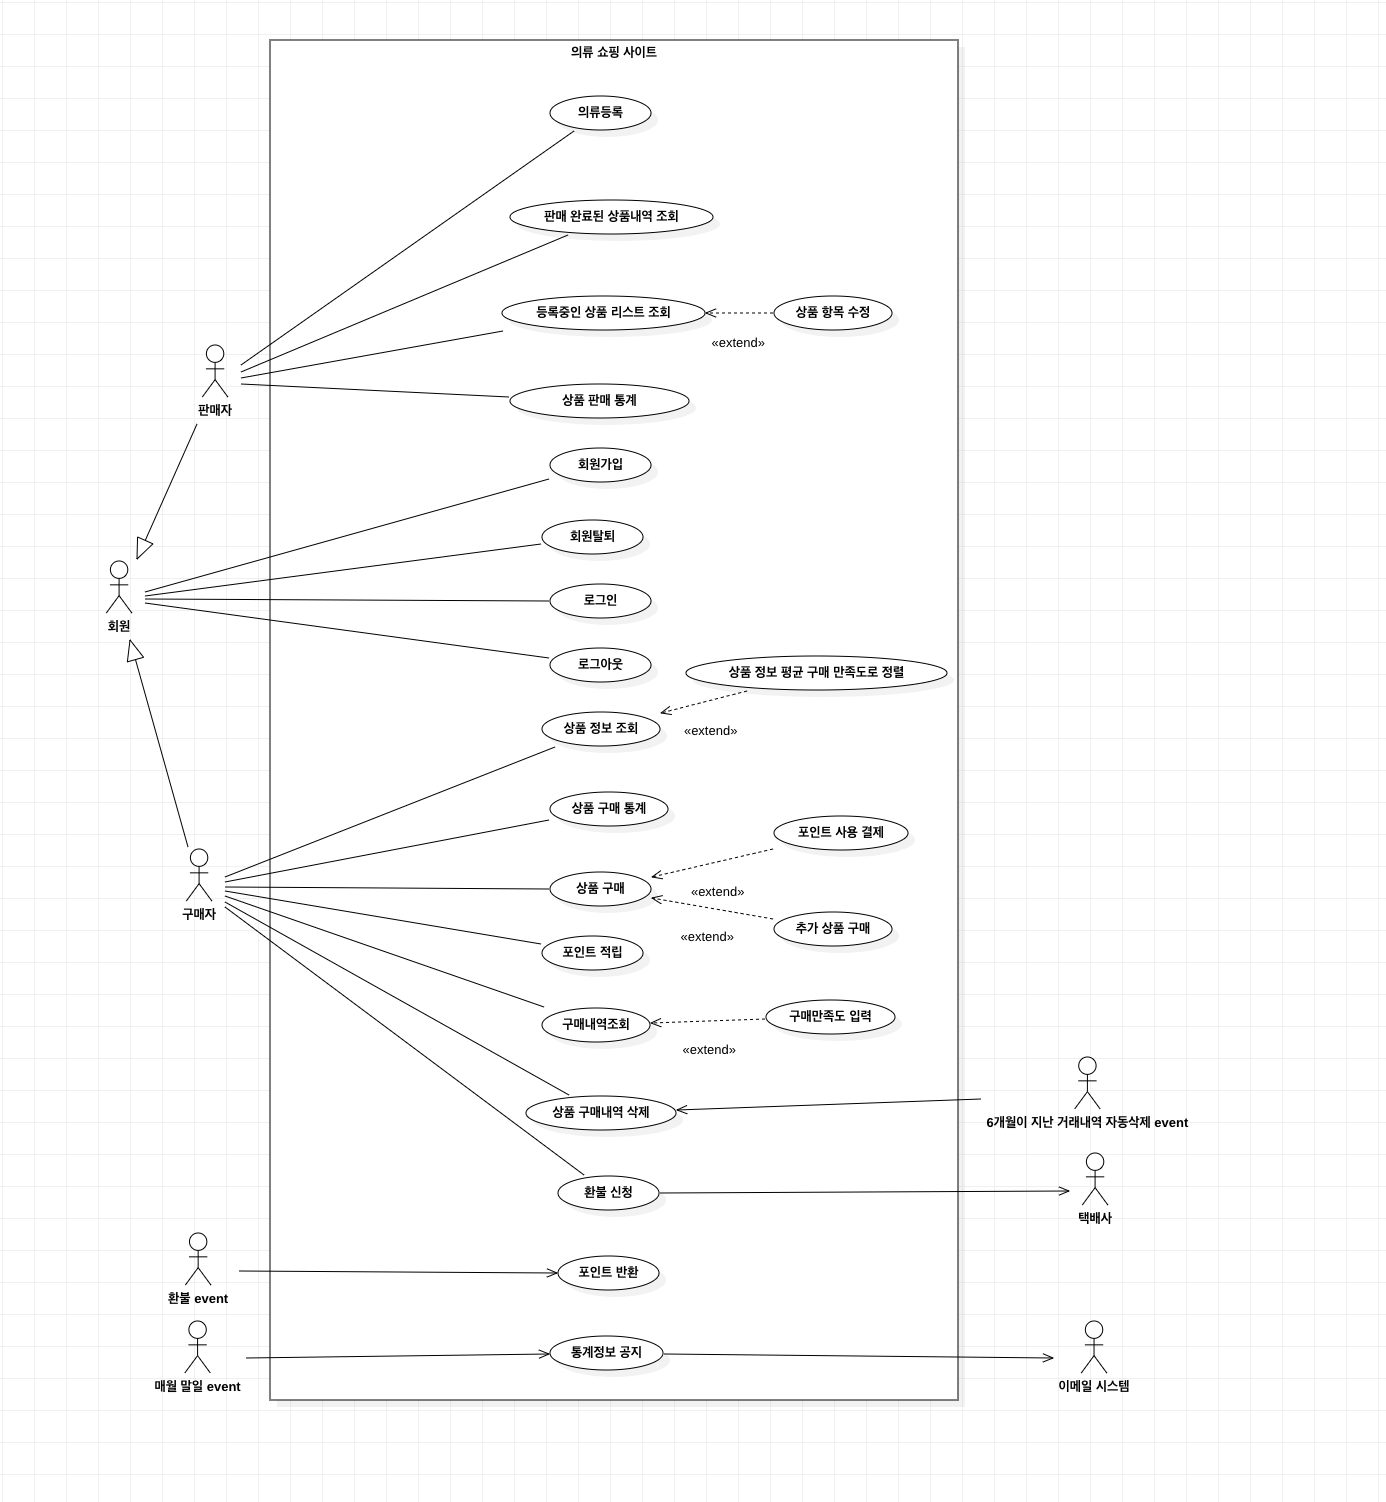
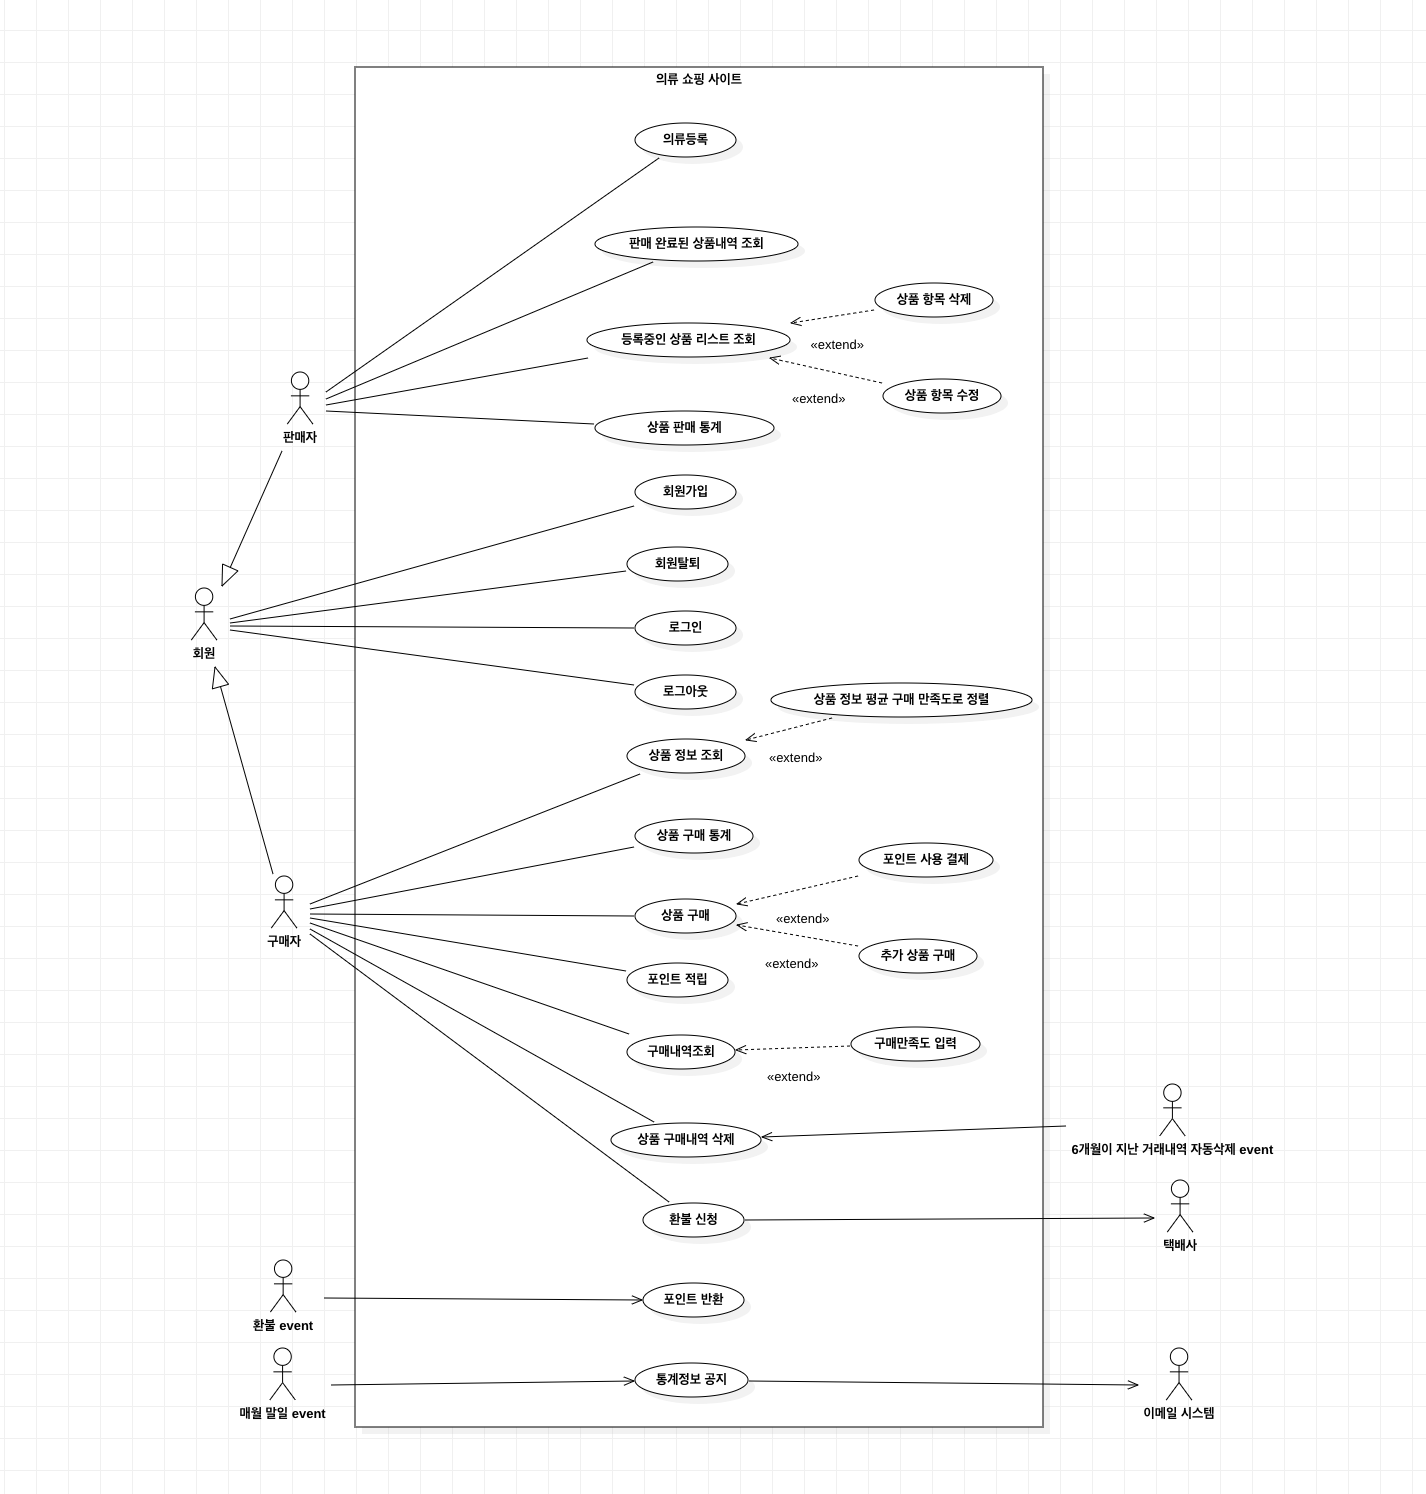
판매의류 삭제 기능 통합 actor description과 통합 ucd에서 수정함

diff --git a/합본 Actor descriptions.md b/합본 Actor descriptions.md
@@ -3,7 +3,7 @@
 | Actor                                | Description                                                  |
 | :----------------------------------- | ------------------------------------------------------------ |
 | 회원                                    | 회원가입/회원탈퇴, 로그인/로그아웃을 할 수 있다. |
-| 판매자                                 | 의류등록, 등록중인 상품 리스트 조회, 상품 판매통계, 판매 완료된 자신의 상품 조회를 할 수 있다.                             |
+| 판매자                                 | 의류등록, 등록중인 상품 리스트 조회, 수정, 삭제, 상품 판매통계, 판매 완료된 상품내역 조회를 할 수 있다.                             |
 | 구매자                                 | 상품정보를 조회, 상품 구매, 포인트적립, 구매내역조회, 상품구매내역 삭제, 환불 신청, 상품 구매통계를 할 수 있다.                       |
 | 택배사                               | 환불을 신청할 때 택배사에 자동으로 물품 수거 신청이 요청된다. |
 | 6개월이 지난 거래내역 자동삭제 event       | 6개월이 지난 거래내역은 자동으로 삭제된다.                   |
